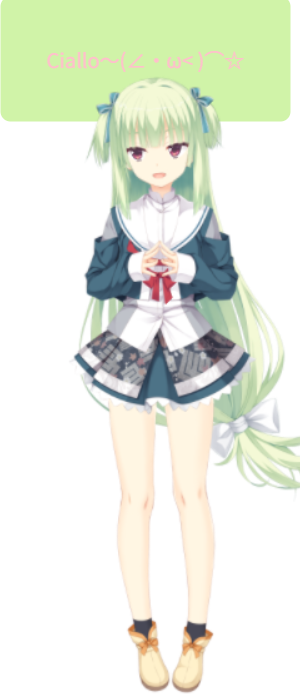
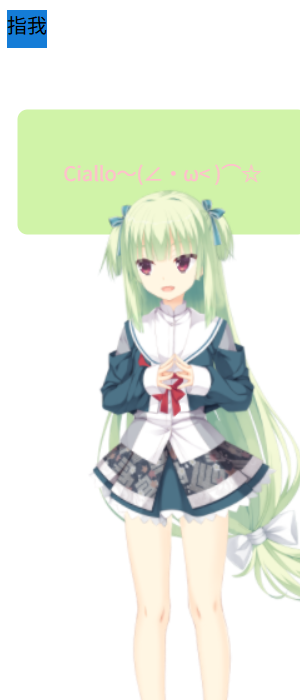
组合打字效果的函数实现函数直接的组合

diff --git a/src/components/directives/vPetNovel.ts b/src/components/directives/vPetNovel.ts
@@ -1,29 +1,41 @@
+//导入结构类型
 import type { ObjectDirective, DirectiveBinding } from 'vue'
-import { ref } from 'vue'
-
-// 1. 全局响应式气泡文本，供 Live2D 组件读取
-export const dialogText = ref<string>('')
+//导入打字效果函数 实现函数组合
+import { useTypewriter } from './useTypewriter'
+//暴露 
+export const { displayText: dialogText, typeText } = useTypewriter(50)
 
 const defaultText = ''
 
-// 2. 扩展 HTMLElement 接口，防止 TS 在 DOM 上挂载函数时报错
 interface PetNovelElement extends HTMLElement {
-  _handleMouseEnter?: () => void
-  _handleMouseLeave?: () => void
+  _handleMouseEnter?: () => void //扩展类型：用来存移入类型
+  _handleMouseLeave?: () => void //扩展类型：用来存移出类型
+  _hoverTimer?: number | null // 扩展类型：用来存悬停定时器
 }
-
-// 3. 封装 TS 指令对象
+//暴露出封装脚本
 export const vPetNovel: ObjectDirective<PetNovelElement, string | number> = {
   mounted(el: PetNovelElement, binding: DirectiveBinding<string | number>) {
     el._handleMouseEnter = () => {
-      console.log('鼠标移入了！传入的值是：', binding.value)
-      if (binding.value !== undefined && binding.value !== null) {
-        dialogText.value = String(binding.value)
-      }
+      // 1. 每次移入时，先清除上一次没完成的定时器
+      if (el._hoverTimer) clearTimeout(el._hoverTimer)
+
+      // 2. 开启延迟：鼠标停留满 300ms 才会触发打字
+      el._hoverTimer = window.setTimeout(() => {
+        if (binding.value !== undefined && binding.value !== null) {
+          typeText(String(binding.value))
+        }
+      }, 200) // 👈 300毫秒延迟，可以根据习惯调大或调小
     }
 
     el._handleMouseLeave = () => {
-      dialogText.value = defaultText
+      // 3. 鼠标离开时，立刻取消未执行的延时打字
+      if (el._hoverTimer) {
+        clearTimeout(el._hoverTimer)
+        el._hoverTimer = null
+      }
+      
+      // 恢复默认文本
+      typeText(defaultText)
     }
 
     el.addEventListener('mouseenter', el._handleMouseEnter)
@@ -31,6 +43,7 @@ export const vPetNovel: ObjectDirective<PetNovelElement, string | number> = {
   },
 
   unmounted(el: PetNovelElement) {
+    if (el._hoverTimer) clearTimeout(el._hoverTimer)
     if (el._handleMouseEnter) {
       el.removeEventListener('mouseenter', el._handleMouseEnter)
       delete el._handleMouseEnter

diff --git a/src/components/directives/useTypewriter.ts b/src/components/directives/useTypewriter.ts
@@ -1,0 +1,32 @@
+import { ref } from 'vue'
+
+export function useTypewriter(defaultSpeed = 50) {
+  // 1. 用于渲染的响应式文本
+  const displayText = ref<string>('')
+  // 2. 内部定时器句柄
+  let timer: number | null = null
+
+  const typeText = (text: string, speed = defaultSpeed) => {
+    // 每次开始新打字前，先清空上一次的定时器
+    if (timer) clearInterval(timer)
+
+    displayText.value = ''
+    
+    let index = 0
+
+    timer = window.setInterval(() => {
+      if (index < text.length) {
+        displayText.value += text.charAt(index)
+        index++
+      } else {
+        if (timer) clearInterval(timer)
+        timer = null
+      }
+    }, speed)
+  }
+
+  return {
+    displayText,
+    typeText
+  }
+}

diff --git a/src/components/live2d.vue b/src/components/live2d.vue
@@ -154,7 +154,7 @@ const modelPos = ref({ x: window.innerWidth * 0.8, y: window.innerHeight * 0.75 
     </div>
   </div>
 
-  <div class="dom" v-pet-novel="123">指定DOM</div>
+  <div class="dom" v-pet-novel="'Ciallo～(∠・ω< )⌒☆'">指我</div>
 </template>
 
 <style scoped>
@@ -194,7 +194,7 @@ body{
 }
 
 .dom{
-  width: 100px;
+  width: auto;
   height: 30px;
   background-color: rgb(20, 124, 215);
   position: relative;
@@ -202,3 +202,4 @@ body{
   cursor: pointer;
 }
 </style>
+

diff --git a/README.md b/README.md
@@ -320,11 +320,101 @@ const modelPos =ref({x: window.innerWidth * 0.8,y: window.innerHeight * 0.75})
 <summary>字符串绑定DOM元素实现打字效果</summary>
 指令封装 解耦 每个dom绑定事件 很麻烦
 
-极致的解耦:单文件封装
+极致的解耦:单文件封装 ts文件封装
 
+封装指令的本质就是vue导出一个对象，挂上函数，vue内部在对应的生命周期自动调用这些函数，传入` el、binding、vnode、prevVNode` 参数。
 
+```
+//引入2种数据类型
+import type { ObjectDirective, DirectiveBinding } from 'vue'
+import { ref } from 'vue'
+
+// 1. 全局响应式气泡文本，供 Live2D 组件读取
+export const dialogText = ref<string>('')
+
+const defaultText = ''
+
+// 2. 扩展 HTMLElement 接口，防止 TS 在 DOM 上挂载函数时报错
+interface PetNovelElement extends HTMLElement {
+  _handleMouseEnter?: () => void
+  _handleMouseLeave?: () => void
+}
+
+// 3. 封装 TS 指令对象
+export const vPetNovel: ObjectDirective<PetNovelElement, string | number> = {
+  mounted(el: PetNovelElement, binding: DirectiveBinding<string | number>) {
+    el._handleMouseEnter = () => {
+      console.log('鼠标移入了！传入的值是：', binding.value,'类型为:' ,typeof('binding.value'))
+      if (binding.value !== undefined && binding.value !== null) {
+        dialogText.value = String(binding.value)
+      }
+    }
+
+    el._handleMouseLeave = () => {
+      dialogText.value = defaultText
+    }
+
+    el.addEventListener('mouseenter', el._handleMouseEnter)
+    el.addEventListener('mouseleave', el._handleMouseLeave)
+  },
+
+  unmounted(el: PetNovelElement) {
+    if (el._handleMouseEnter) {
+      el.removeEventListener('mouseenter', el._handleMouseEnter)
+      delete el._handleMouseEnter
+    }
+    if (el._handleMouseLeave) {
+      el.removeEventListener('mouseleave', el._handleMouseLeave)
+      delete el._handleMouseLeave
+    }
+  }
+}
+```
 
 </details>
+
+<details>
+<summary>打字封装TS<summary>
+
+跨函数之间的通信 组合式函数 与封装指令文件结合
+
+```
+import { ref } from 'vue'
+
+export function useTypewriter(defaultSpeed = 50) {
+  // 1. 用于渲染的响应式文本
+  const displayText = ref<string>('')
+  // 2. 内部定时器句柄
+  let timer: number | null = null
+
+  const typeText = (text: string, speed = defaultSpeed) => {
+    // 每次开始新打字前，先清空上一次的定时器
+    if (timer) clearInterval(timer)
+
+    displayText.value = ''
+    
+    let index = 0
+
+    timer = window.setInterval(() => {
+      if (index < text.length) {
+        displayText.value += text.charAt(index)
+        index++
+      } else {
+        if (timer) clearInterval(timer)
+        timer = null
+      }
+    }, speed)
+  }
+
+  return {
+    displayText,
+    typeText
+  }
+}
+```
+
+</details>
+
 
 <details>
 <summary>DOM元素绑定对应表情</summary>
